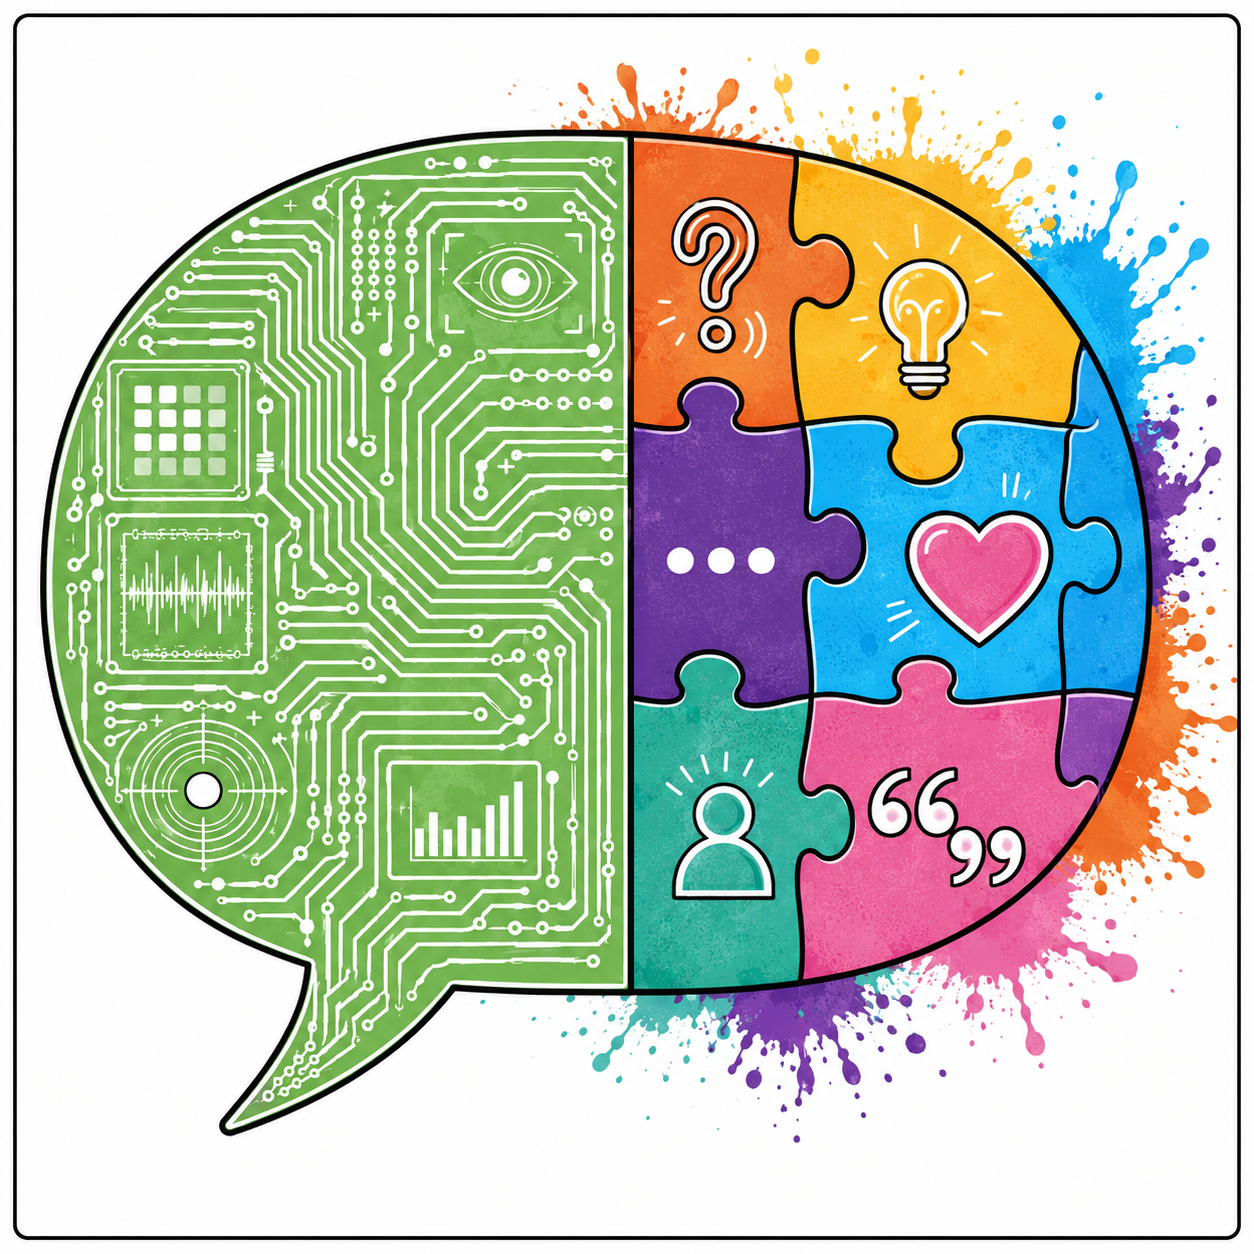
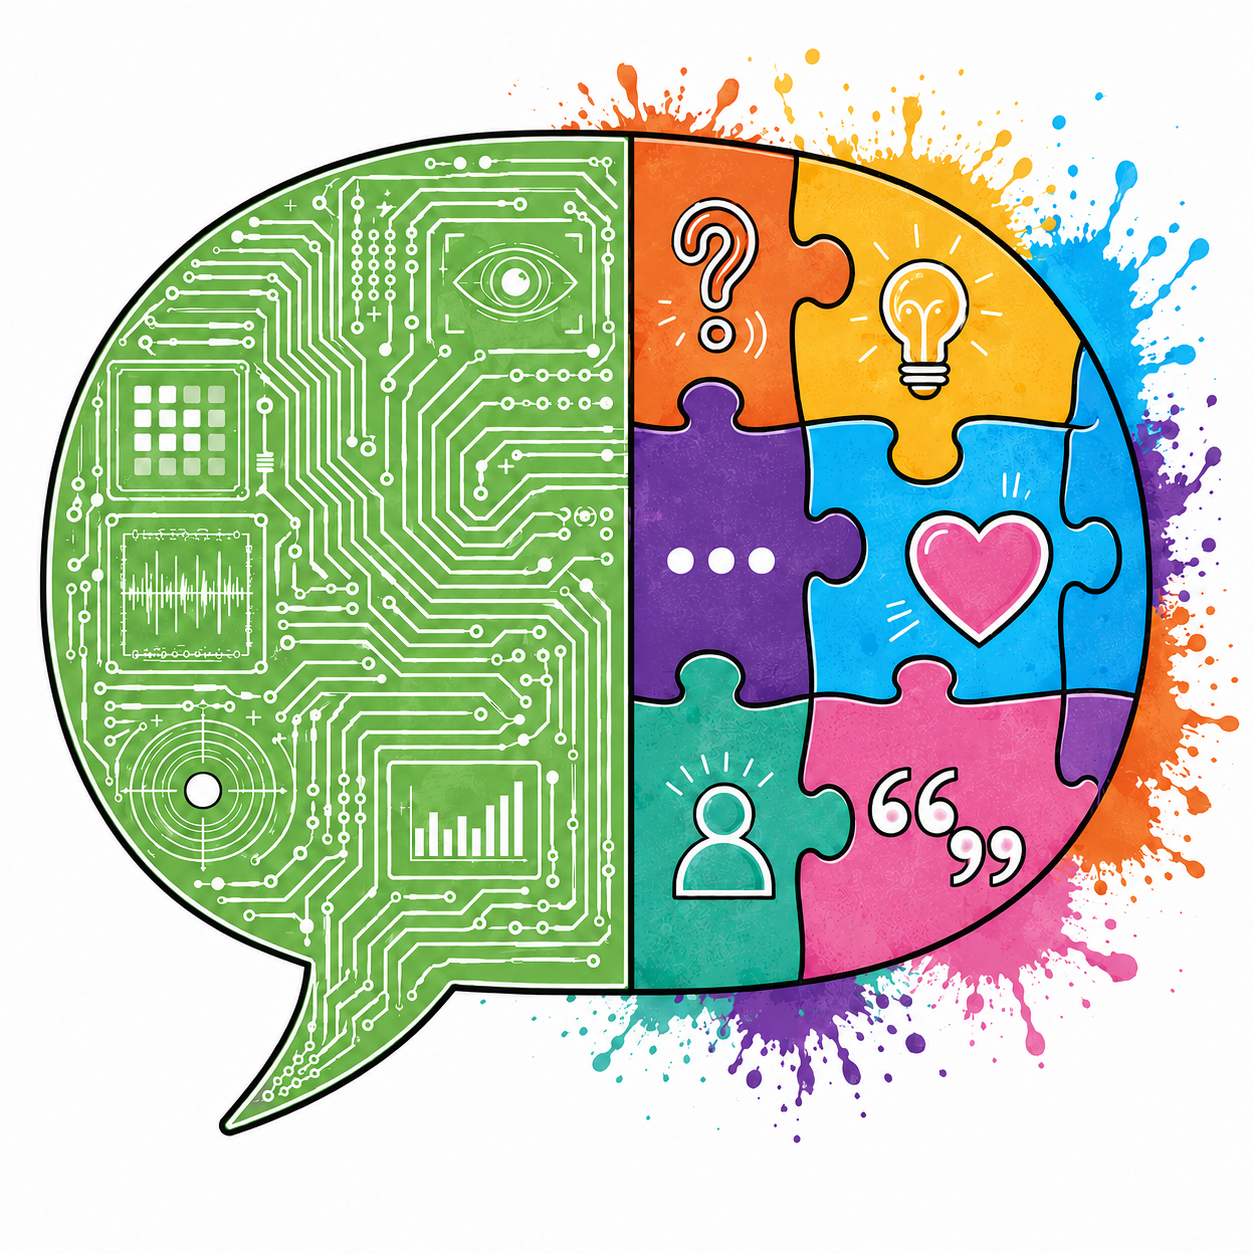
add

diff --git a/style.css b/style.css
@@ -3751,3 +3751,22 @@ body.is-embedded-frame .overview-row.is-full,
     row-gap: 14px !important;
   }
 }
+
+
+/* V19: Index-Bilder randlos darstellen */
+body.is-embedded-frame .overview-stage-media,
+.overview-stage-media {
+  border: none !important;
+  box-shadow: none !important;
+  outline: none !important;
+  border-radius: 0 !important;
+  background: #ffffff !important;
+}
+
+body.is-embedded-frame .overview-stage-media img,
+.overview-stage-media img {
+  border: none !important;
+  box-shadow: none !important;
+  outline: none !important;
+  background: #ffffff !important;
+}